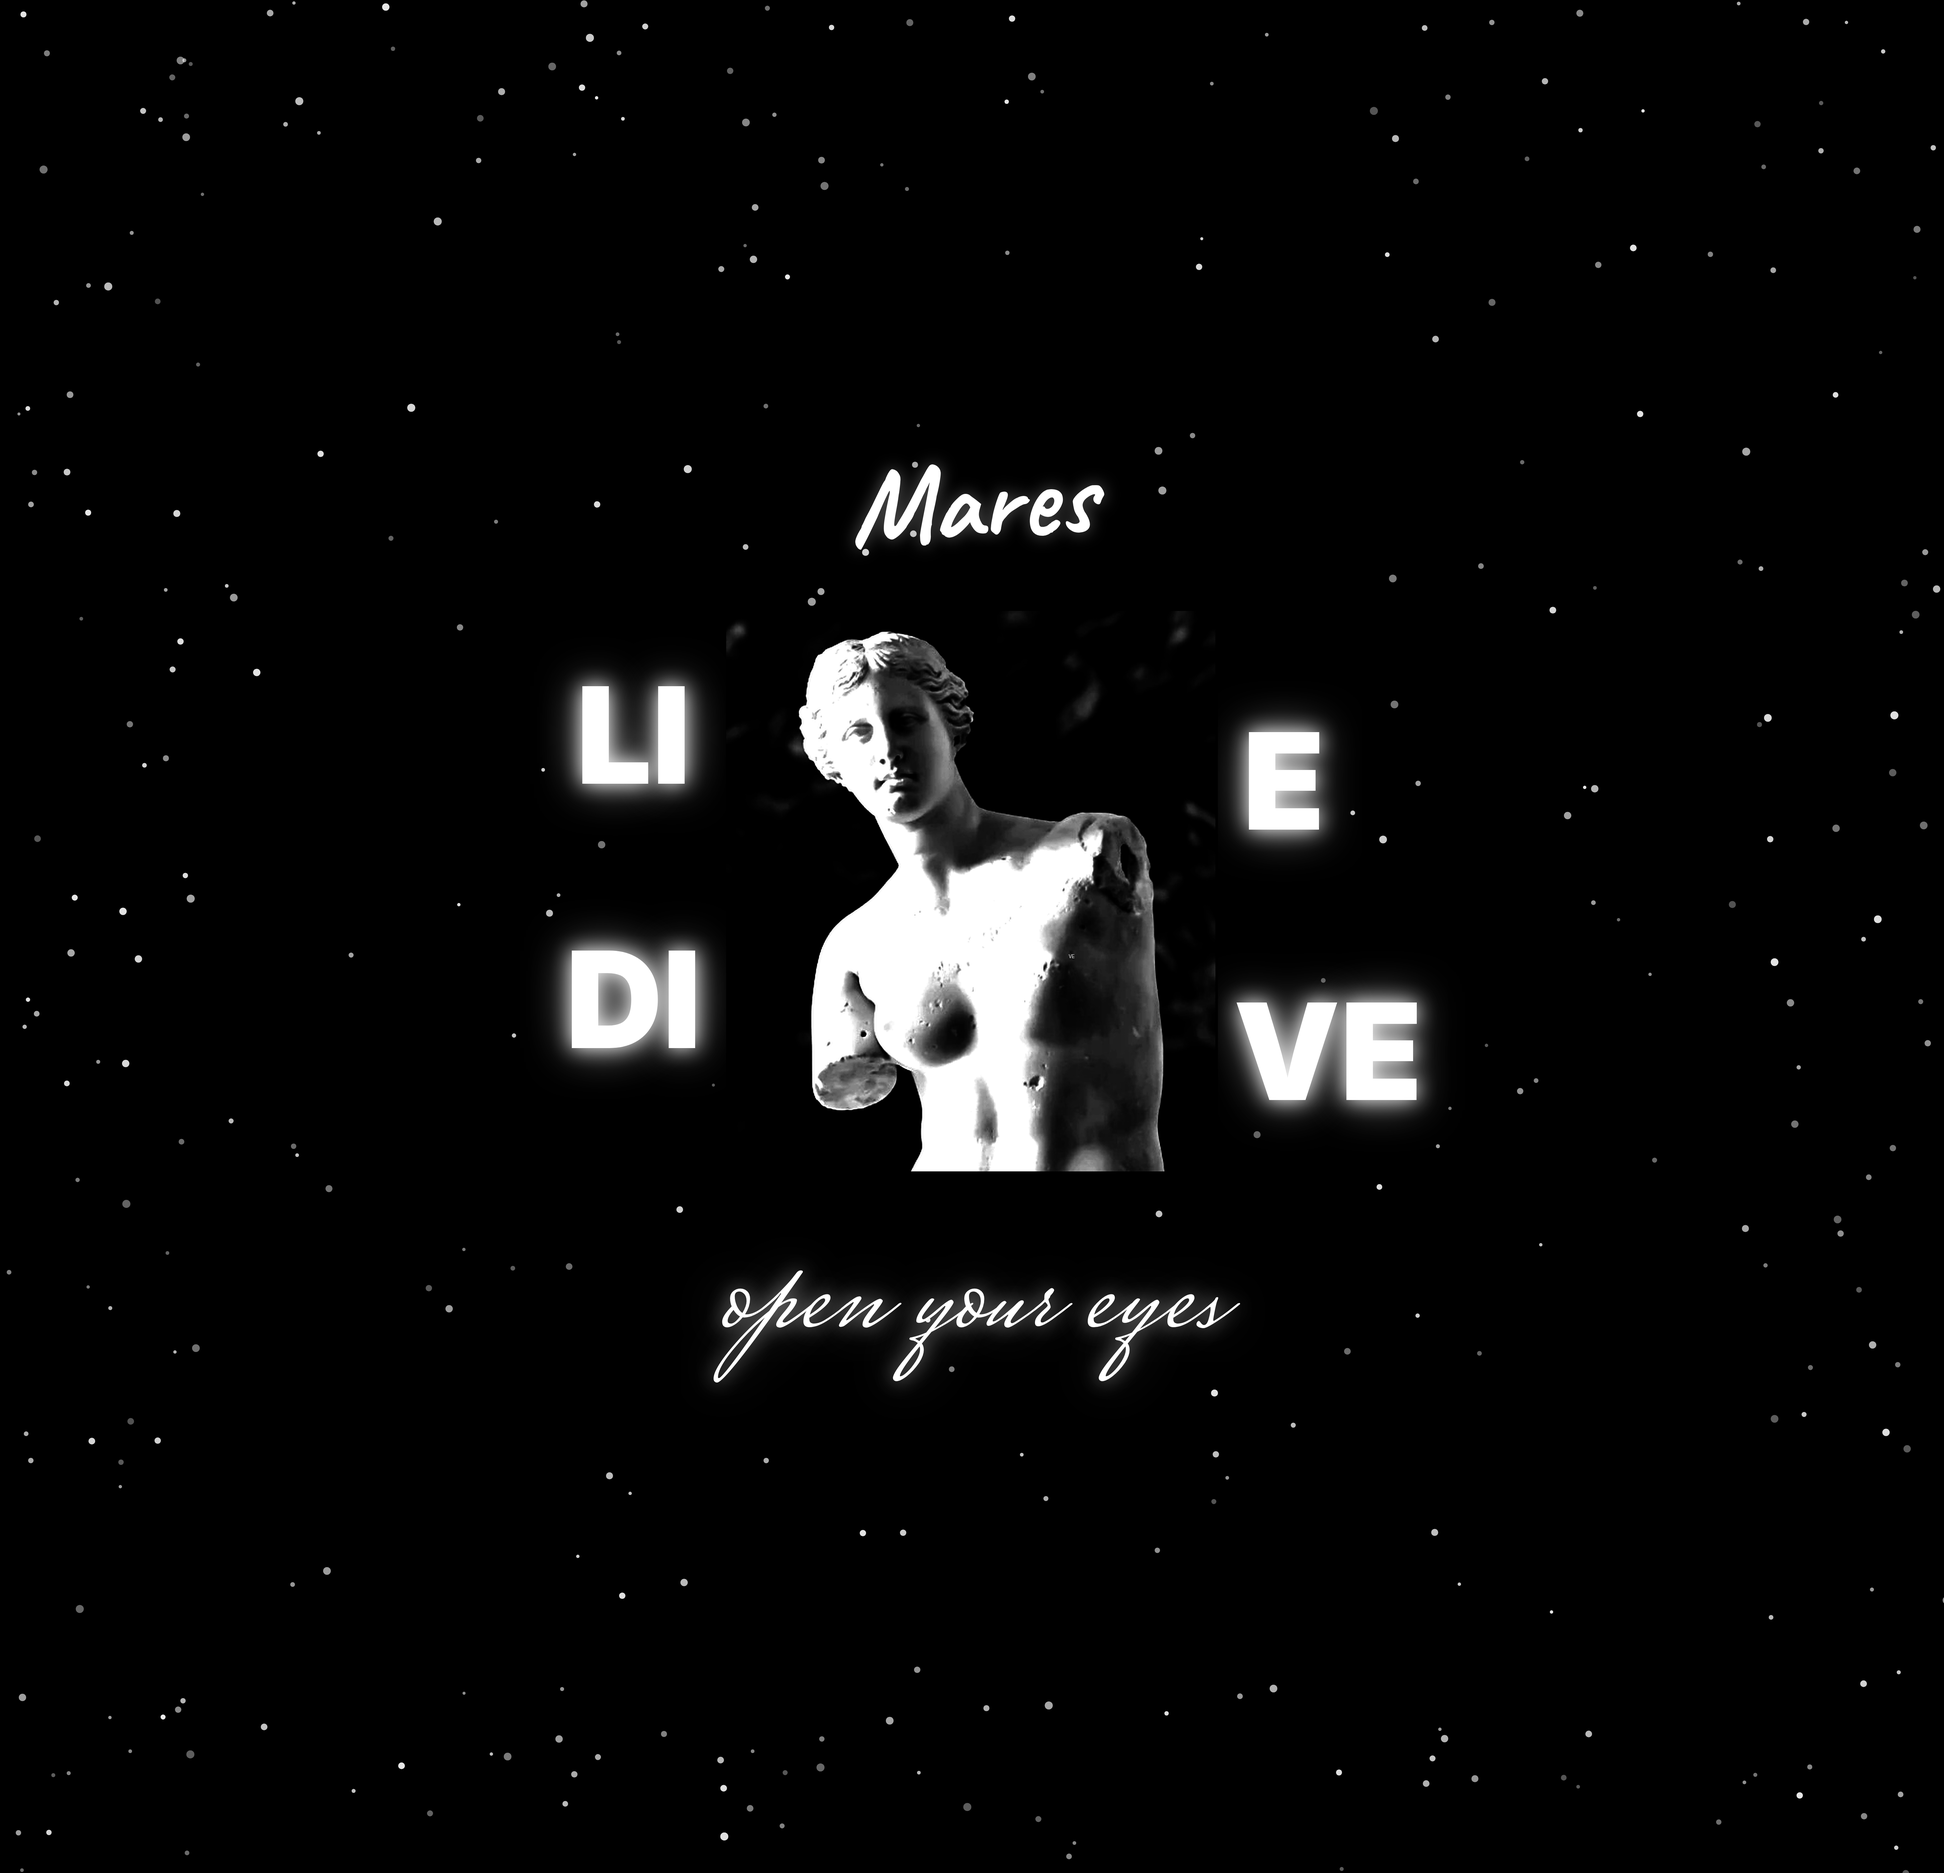
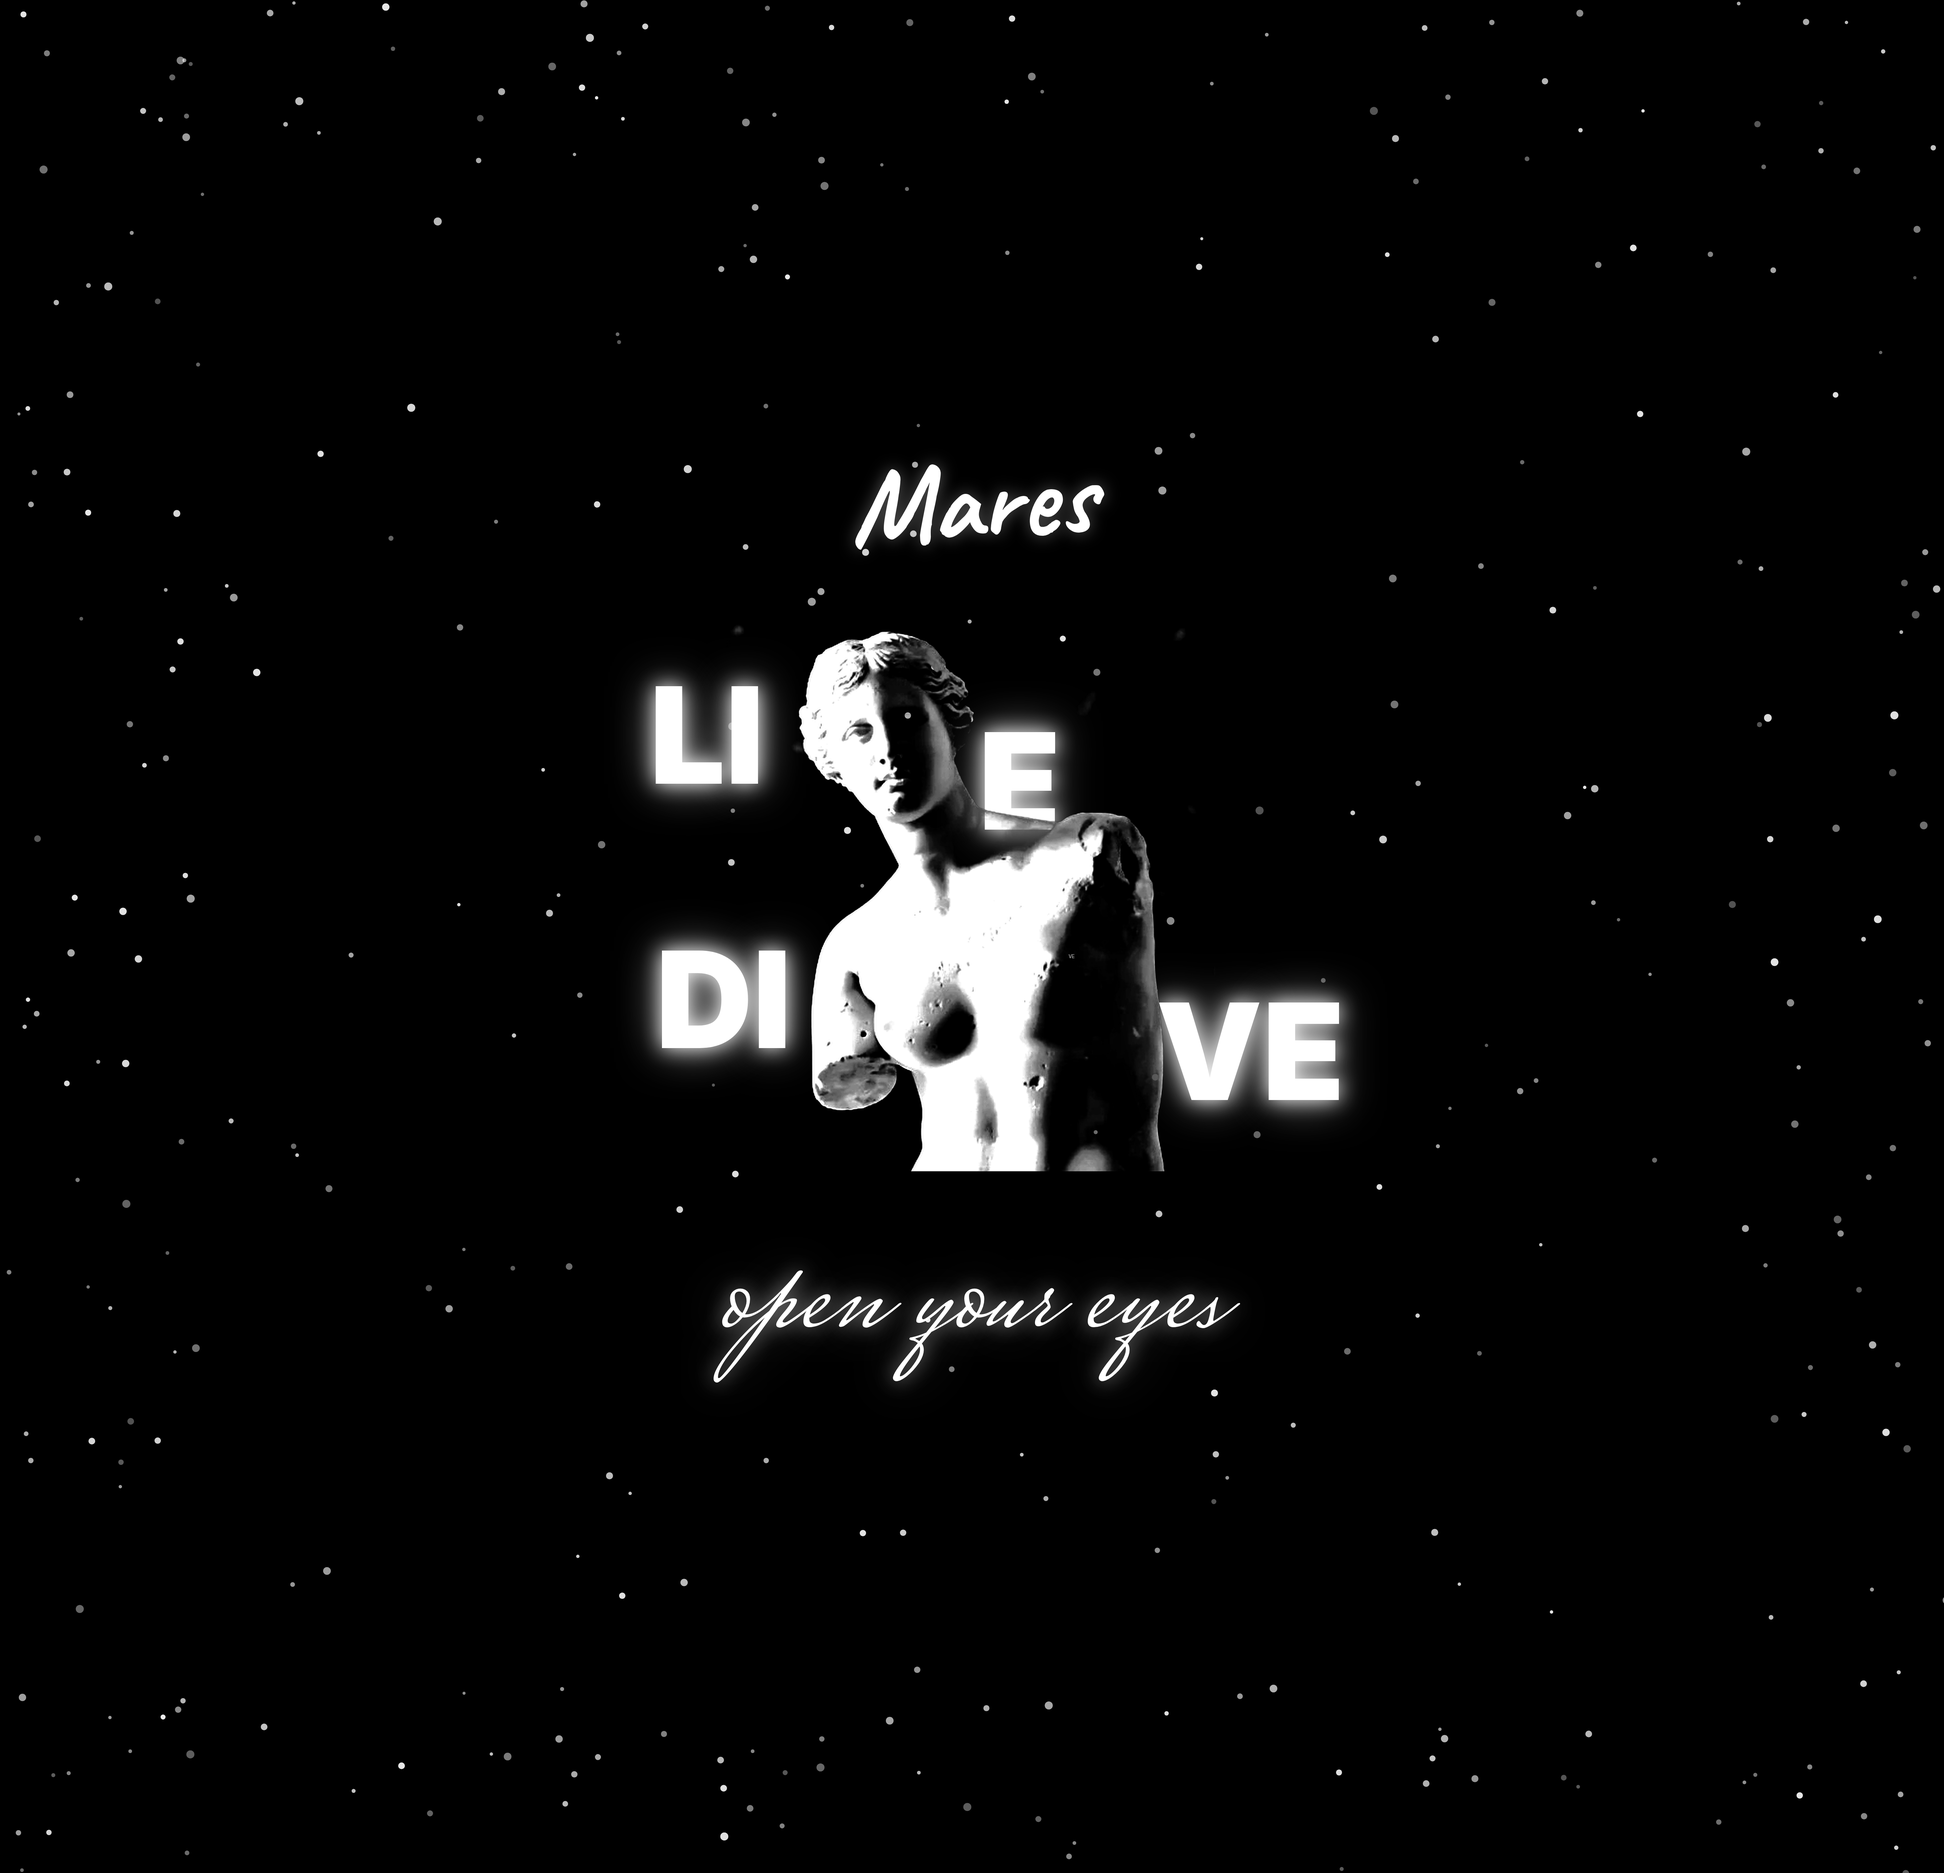
Key out the statue backdrop so the letters can hug the figure
The letters could not come closer because the statue was an opaque black
rectangle that masked anything behind it, forcing a 90px gap from the
rectangle edge rather than from the figure. The backdrop is now keyed to
transparency and each letter is placed 45px off the silhouette width
measured at its own height, so LI/E/DI/VE follow the body outline.

Claude-Session: https://claude.ai/code/session_01CMmd7hHney9Uuvu8uMddpz

diff --git a/designs/print-ready/PRINTFUL_AOP_HOODIE.md b/designs/print-ready/PRINTFUL_AOP_HOODIE.md
@@ -55,9 +55,12 @@ On the earlier pocket version the pocket covered everything below 48% and
 the artwork was half hidden. If you ever switch back to a pocket hoodie,
 say so and I'll re-drop the artwork into the 11.5%–48% band.
 
-The four letters sit ~90–120 px clear of the artwork's edges. The artwork
-is an opaque rectangle, so letters tucked under it disappear — they have
-to sit beside it, not behind it.
+The statue artwork has its black backdrop **keyed out to transparency**,
+so the four letters sit ~45 px off the statue's actual outline rather
+than off the edge of an opaque rectangle. That is what lets LI·E / DI·VE
+hug the figure and read as one composition. Letter positions are derived
+from the silhouette width measured at each letter's own height, so they
+follow the body rather than sitting in straight columns.
 
 ## Notes
 
